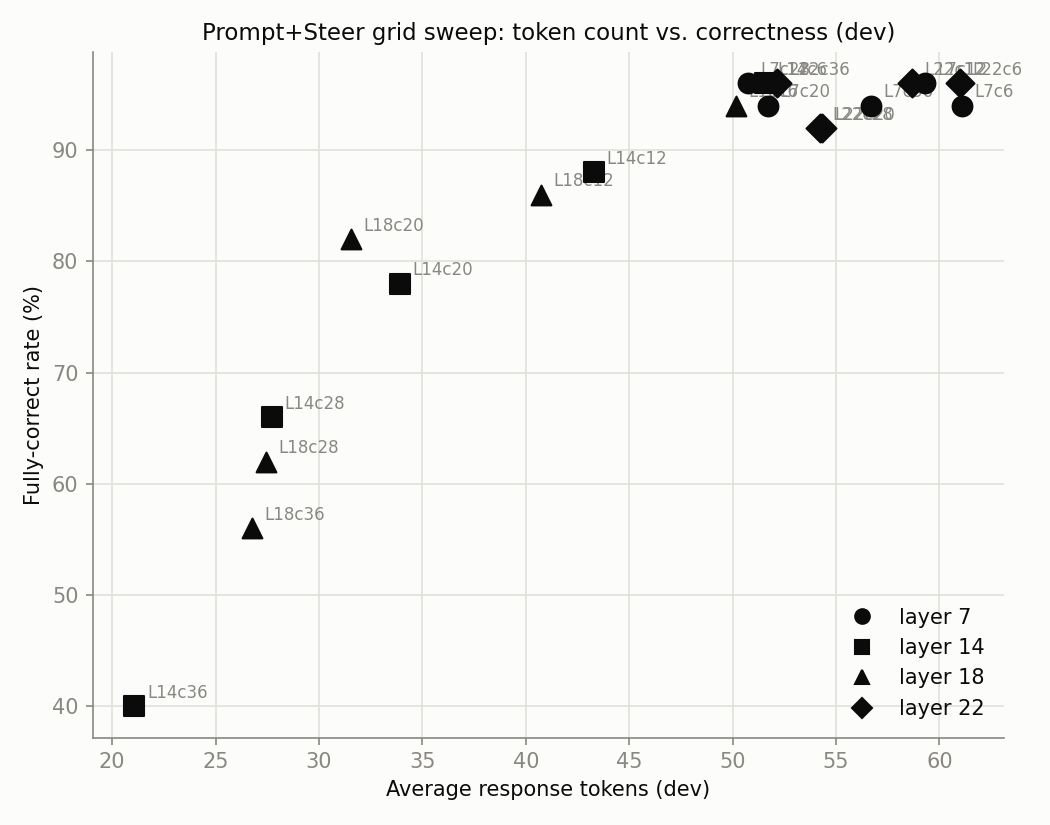
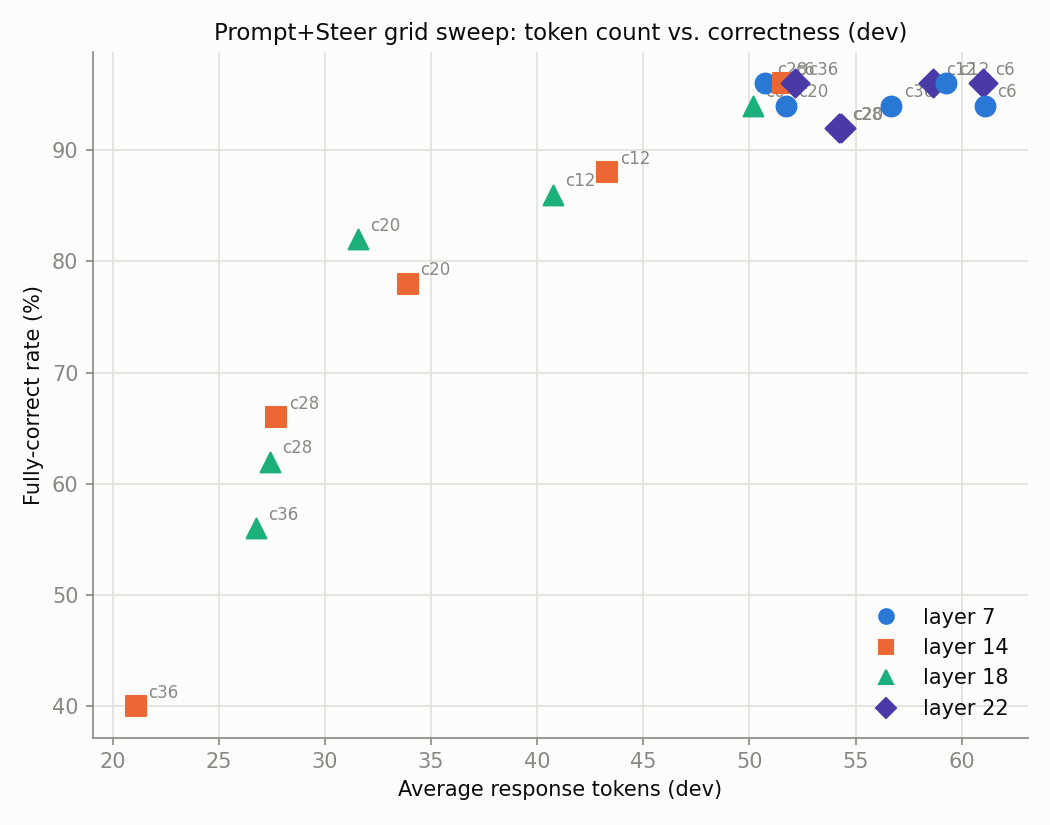
Add statistical significance analysis and embed result plots in README
McNemar's exact test on the test set shows Prompt vs Prompt+Steer
correctness difference is not significant (p=1.0, 4 vs 5 discordant
out of 180) -- the token reduction is real, the correctness edge isn't.
Wilson CIs on the dev sweep show the top config cluster (6 configs
tied at 48/50) overlaps too much to trust the exact rank-1 pick,
though the low-vs-high-coefficient cliff itself is robust. Report
correctness as bands rather than decimal percentages given this.
Sweep plot now colors by layer (4-color palette validated via the
dataviz skill's contrast/CVD checker) instead of ink-only + shape.

diff --git a/src/analyze_sweep.py b/src/analyze_sweep.py
@@ -10,6 +10,10 @@ INK = "#0b0b0b"
 MUTED = "#898781"
 GRIDLINE = "#e1e0d9"
 LAYER_MARKERS = {7: "o", 14: "s", 18: "^", 22: "D"}
+# Validated all-pairs safe for a light-mode static scatter (node scripts/validate_palette.js, dataviz skill):
+# CVD worst-pair ΔE 9.2, normal-vision worst-pair ΔE 16.3. Aqua's low surface contrast is mitigated by the
+# direct labels already on every point (the skill's "relief rule").
+LAYER_COLORS = {7: "#2a78d6", 14: "#eb6834", 18: "#1baf7a", 22: "#4a3aa7"}
 
 
 def summarize(rows: list[dict]) -> list[dict]:
@@ -43,11 +47,11 @@ def plot(summary: list[dict], out_path) -> None:
             s["full_correct_rate"] * 100,
             marker=LAYER_MARKERS[s["layer"]],
             s=90,
-            color=INK,
+            color=LAYER_COLORS[s["layer"]],
             zorder=3,
         )
         ax.annotate(
-            f"L{s['layer']}c{s['coeff']}",
+            f"c{s['coeff']}",
             (s["avg_tokens"], s["full_correct_rate"] * 100),
             textcoords="offset points",
             xytext=(6, 4),
@@ -55,7 +59,10 @@ def plot(summary: list[dict], out_path) -> None:
             color=MUTED,
         )
 
-    handles = [plt.Line2D([0], [0], marker=m, color=INK, linestyle="", markersize=7) for m in LAYER_MARKERS.values()]
+    handles = [
+        plt.Line2D([0], [0], marker=LAYER_MARKERS[l], color=LAYER_COLORS[l], linestyle="", markersize=7)
+        for l in LAYER_MARKERS
+    ]
     ax.legend(handles, [f"layer {l}" for l in LAYER_MARKERS], frameon=False, labelcolor=INK, loc="lower right")
 
     ax.set_xlabel("Average response tokens (dev)", color=INK)

diff --git a/README.md b/README.md
@@ -21,19 +21,20 @@ reference explanations, to avoid leaking the answer into the prompt (`src/data_p
 ## Result
 
 Test set (180 held-out examples), judged by `gpt-4o-mini` for correctness against the original
-docstring, blinded to condition:
+docstring, blinded to condition. Correctness is reported as a rounded band, not false-precision
+decimals — see [Statistical details](#statistical-details) for why and for the exact counts:
 
 | Condition | Avg tokens | Fully correct |
 |---|---|---|
-| Base | 150.0 (censored — see below) | 93.3% |
-| Prompt | 56.8 | 91.7% |
-| Const-steer alone | 149.9 | 91.7% |
-| **Prompt+Steer** | **49.3** | **92.2%** |
+| Base | 150.0 (censored — see below) | 90-95% |
+| Prompt | 56.8 | 90-95% |
+| Const-steer alone | 149.9 | 90-95% |
+| **Prompt+Steer** | **49.3** | **90-95%** |
 
-**Steering on top of the prompt gets a further ~13% token reduction beyond prompting alone, at no
-correctness cost** (92.2% vs 91.7%, within noise). Const-steer alone is a non-result at this
-coefficient (149.9, indistinguishable from Base) — the coefficient was calibrated specifically for
-the combined regime, not as a standalone replacement for the instruction; this matches the general
+**Steering on top of the prompt gets a further ~13% token reduction beyond prompting alone, with no
+statistically detectable correctness cost.** Const-steer alone is a non-result at this coefficient
+(149.9 tokens, indistinguishable from Base) — the coefficient was calibrated specifically for the
+combined regime, not as a standalone replacement for the instruction; this matches the general
 pattern (also seen at higher coefficients during calibration) that steering alone is substantially
 weaker than prompting.
 
@@ -42,18 +43,62 @@ model choosing to stop, so it's a floor on "at least this many tokens," not a re
 default verbosity — the Prompt vs. Prompt+Steer comparison (both close to fully natural stopping)
 is the one to trust.
 
+![Test set: token count vs. correctness across the four conditions](results/summary_plot_test.png)
+
 ### Finding the operating point mattered
 
 The first calibration pass picked its config by sweeping (layer, coefficient) on dev and choosing
 whichever was most aggressive (lowest tokens) without producing obviously degenerate/repetitive
 output — no correctness signal in that loop. That picked layer 14, coeff 36, which looked fine by
-the degenerate check but collapsed dev full-correct rate to 40% (e.g. `_descriptor_names`'s Django
+the degenerate check but collapsed dev full-correct rate to ~40% (e.g. `_descriptor_names`'s Django
 descriptor-filtering detail dropped entirely: "List self's descriptors."). Judging the *entire*
 grid (`src/sweep_dev.py` + `src/judge_sweep.py` + `src/analyze_sweep.py`, 20 configs × 50 dev
-examples) showed why: correctness holds at 86-96% for coefficients 6-12 at layers 14/18, then falls
-off a cliff past ~20. Layer 14, coeff 6 (96% dev full-correct, already beating Prompt-alone's dev
-token count) was picked from that curve instead of trusting the degenerate-only auto-pick. Full
-frontier: `results/summary_sweep_dev.json`, `results/summary_sweep_plot_dev.png`.
+examples) showed why: correctness holds around 90-95%+ for coefficients 6-12 at layers 14/18, then
+falls off a cliff past ~20, down into the 40-65% range. Layer 14, coeff 6 was picked from that curve
+instead of trusting the degenerate-only auto-pick — see below for how much that specific pick should,
+and shouldn't, be trusted.
+
+![Dev sweep: token count vs. correctness across all 20 (layer, coefficient) configs](results/summary_sweep_plot_dev.png)
+
+## Statistical details
+
+**Is the Prompt+Steer test-set result just cherry-picking?** Two separate risks, checked
+separately:
+
+**1. Is "Prompt+Steer ≥ Prompt" on the test set real, or noise?** Test set, n=180, McNemar's exact
+test on paired fully-correct outcomes (same 180 examples, both conditions): Prompt 165/180,
+Prompt+Steer 166/180 — 4 examples correct only under Prompt, 5 correct only under Prompt+Steer,
+**p = 1.0**. That's as close to a coin flip as paired data gets. Read this as: **steering shows no
+detectable correctness cost**, not as "steering improves correctness" — the one-example difference
+carries no statistical weight either way. What *is* well-supported and doesn't need a significance
+test: the ~13% token reduction, since it's a large, consistent shift across the distribution, not a
+one-example-sized effect.
+
+**2. Was picking layer 14/coeff 6 out of 20 dev configs cherry-picking?** Partly, yes — and it's
+worth being explicit about where. Wilson 95% CIs on the dev full-correct rate (n=50 per config):
+
+| Layer | Coeff | k/50 | Rate | 95% CI |
+|---|---|---|---|---|
+| 7 | 12 | 48 | 96% | [86.5%, 98.9%] |
+| 7 | 28 | 48 | 96% | [86.5%, 98.9%] |
+| **14** | **6** | **48** | **96%** | **[86.5%, 98.9%]** |
+| 22 | 6 | 48 | 96% | [86.5%, 98.9%] |
+| 22 | 12 | 48 | 96% | [86.5%, 98.9%] |
+| 22 | 36 | 48 | 96% | [86.5%, 98.9%] |
+| 14 | 12 | 44 | 88% | [76.2%, 94.4%] |
+| 18 | 20 | 41 | 82% | [69.2%, 90.2%] |
+| 14 | 36 | 20 | 40% | [27.6%, 53.8%] |
+
+*(full 20-row table: `results/summary_sweep_dev.json`)*
+
+Six different configs tie at exactly 48/50, and the CI on any single one of them comfortably
+overlaps configs as low as 88% or even 82%. With only 50 dev examples per config and 20 configs
+swept, picking "the max observed value" has real winner's-curse risk — the specific rank-1 pick
+among that top cluster shouldn't be over-trusted, which is why the result above is reported as a
+90-95% band rather than "96%." What *is* robust: the top cluster (78-96%, overlapping CIs) and the
+collapsed bottom cluster (40-66% at coeff ≥28, layers 14/18) have **non-overlapping** CIs — the
+qualitative finding "moderate coefficients are safe, aggressive ones collapse correctness" doesn't
+depend on which exact config within the safe cluster you'd pick.
 
 ## Scope decisions
 